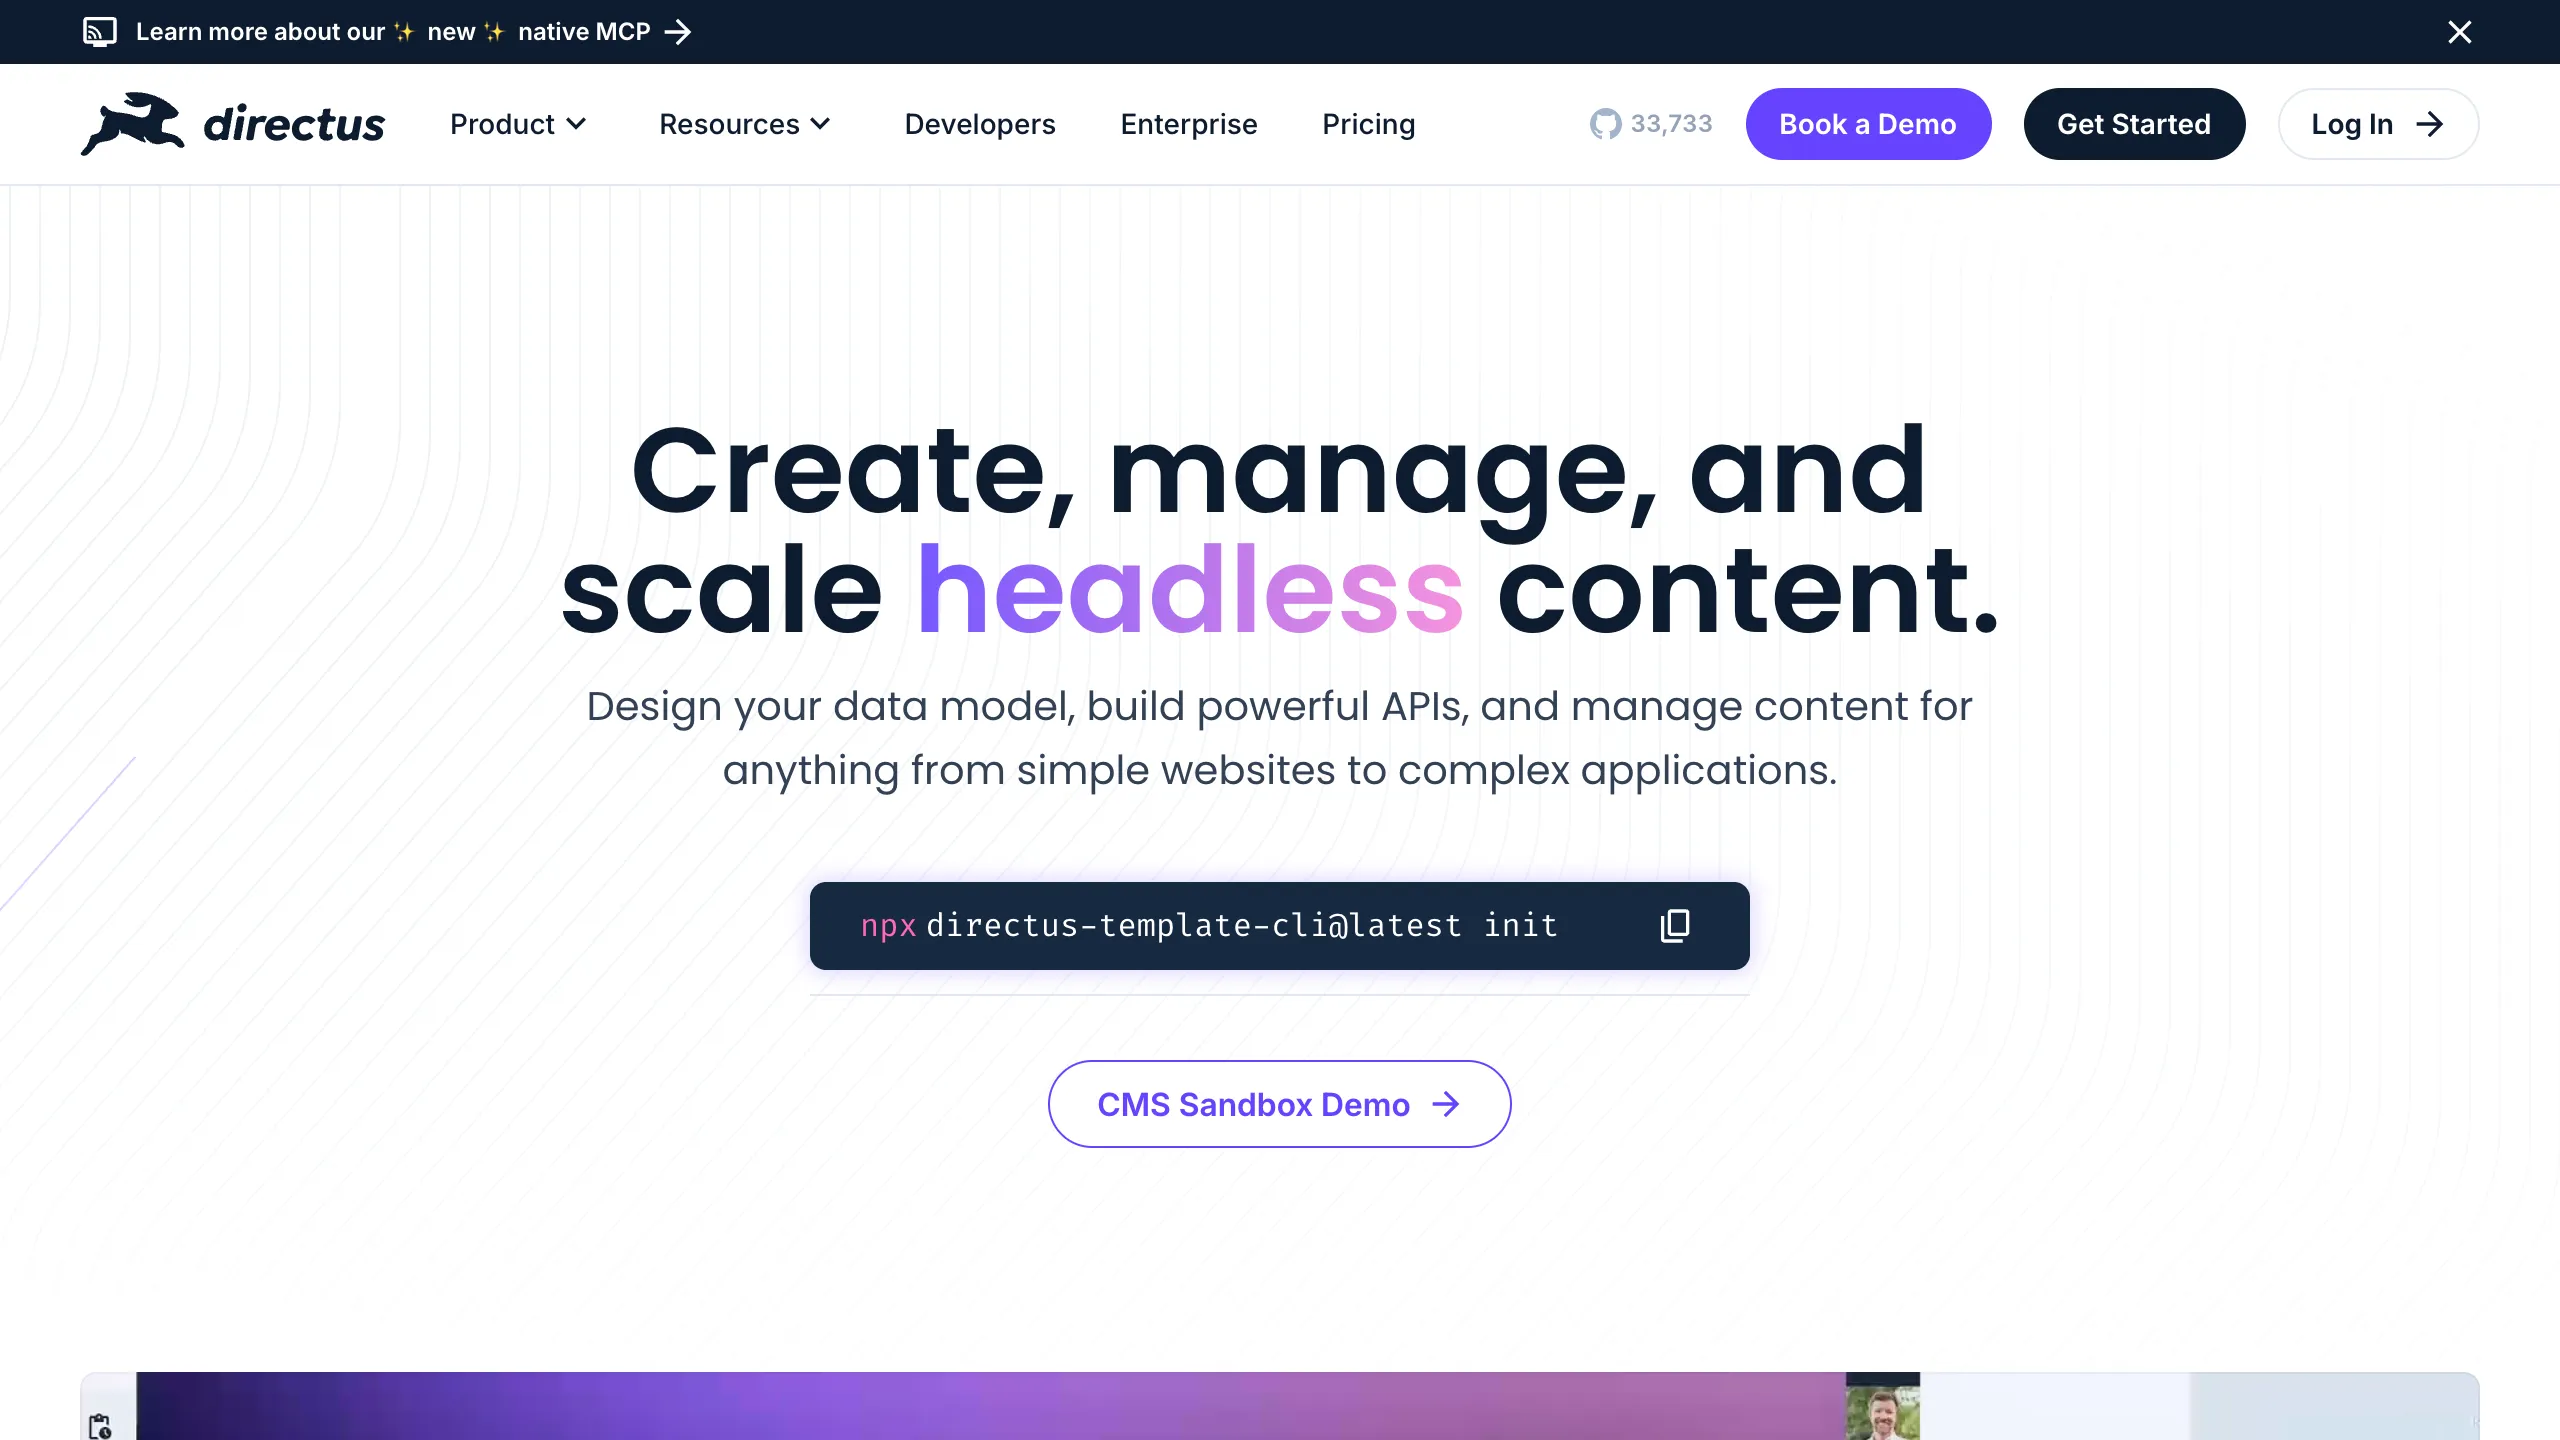
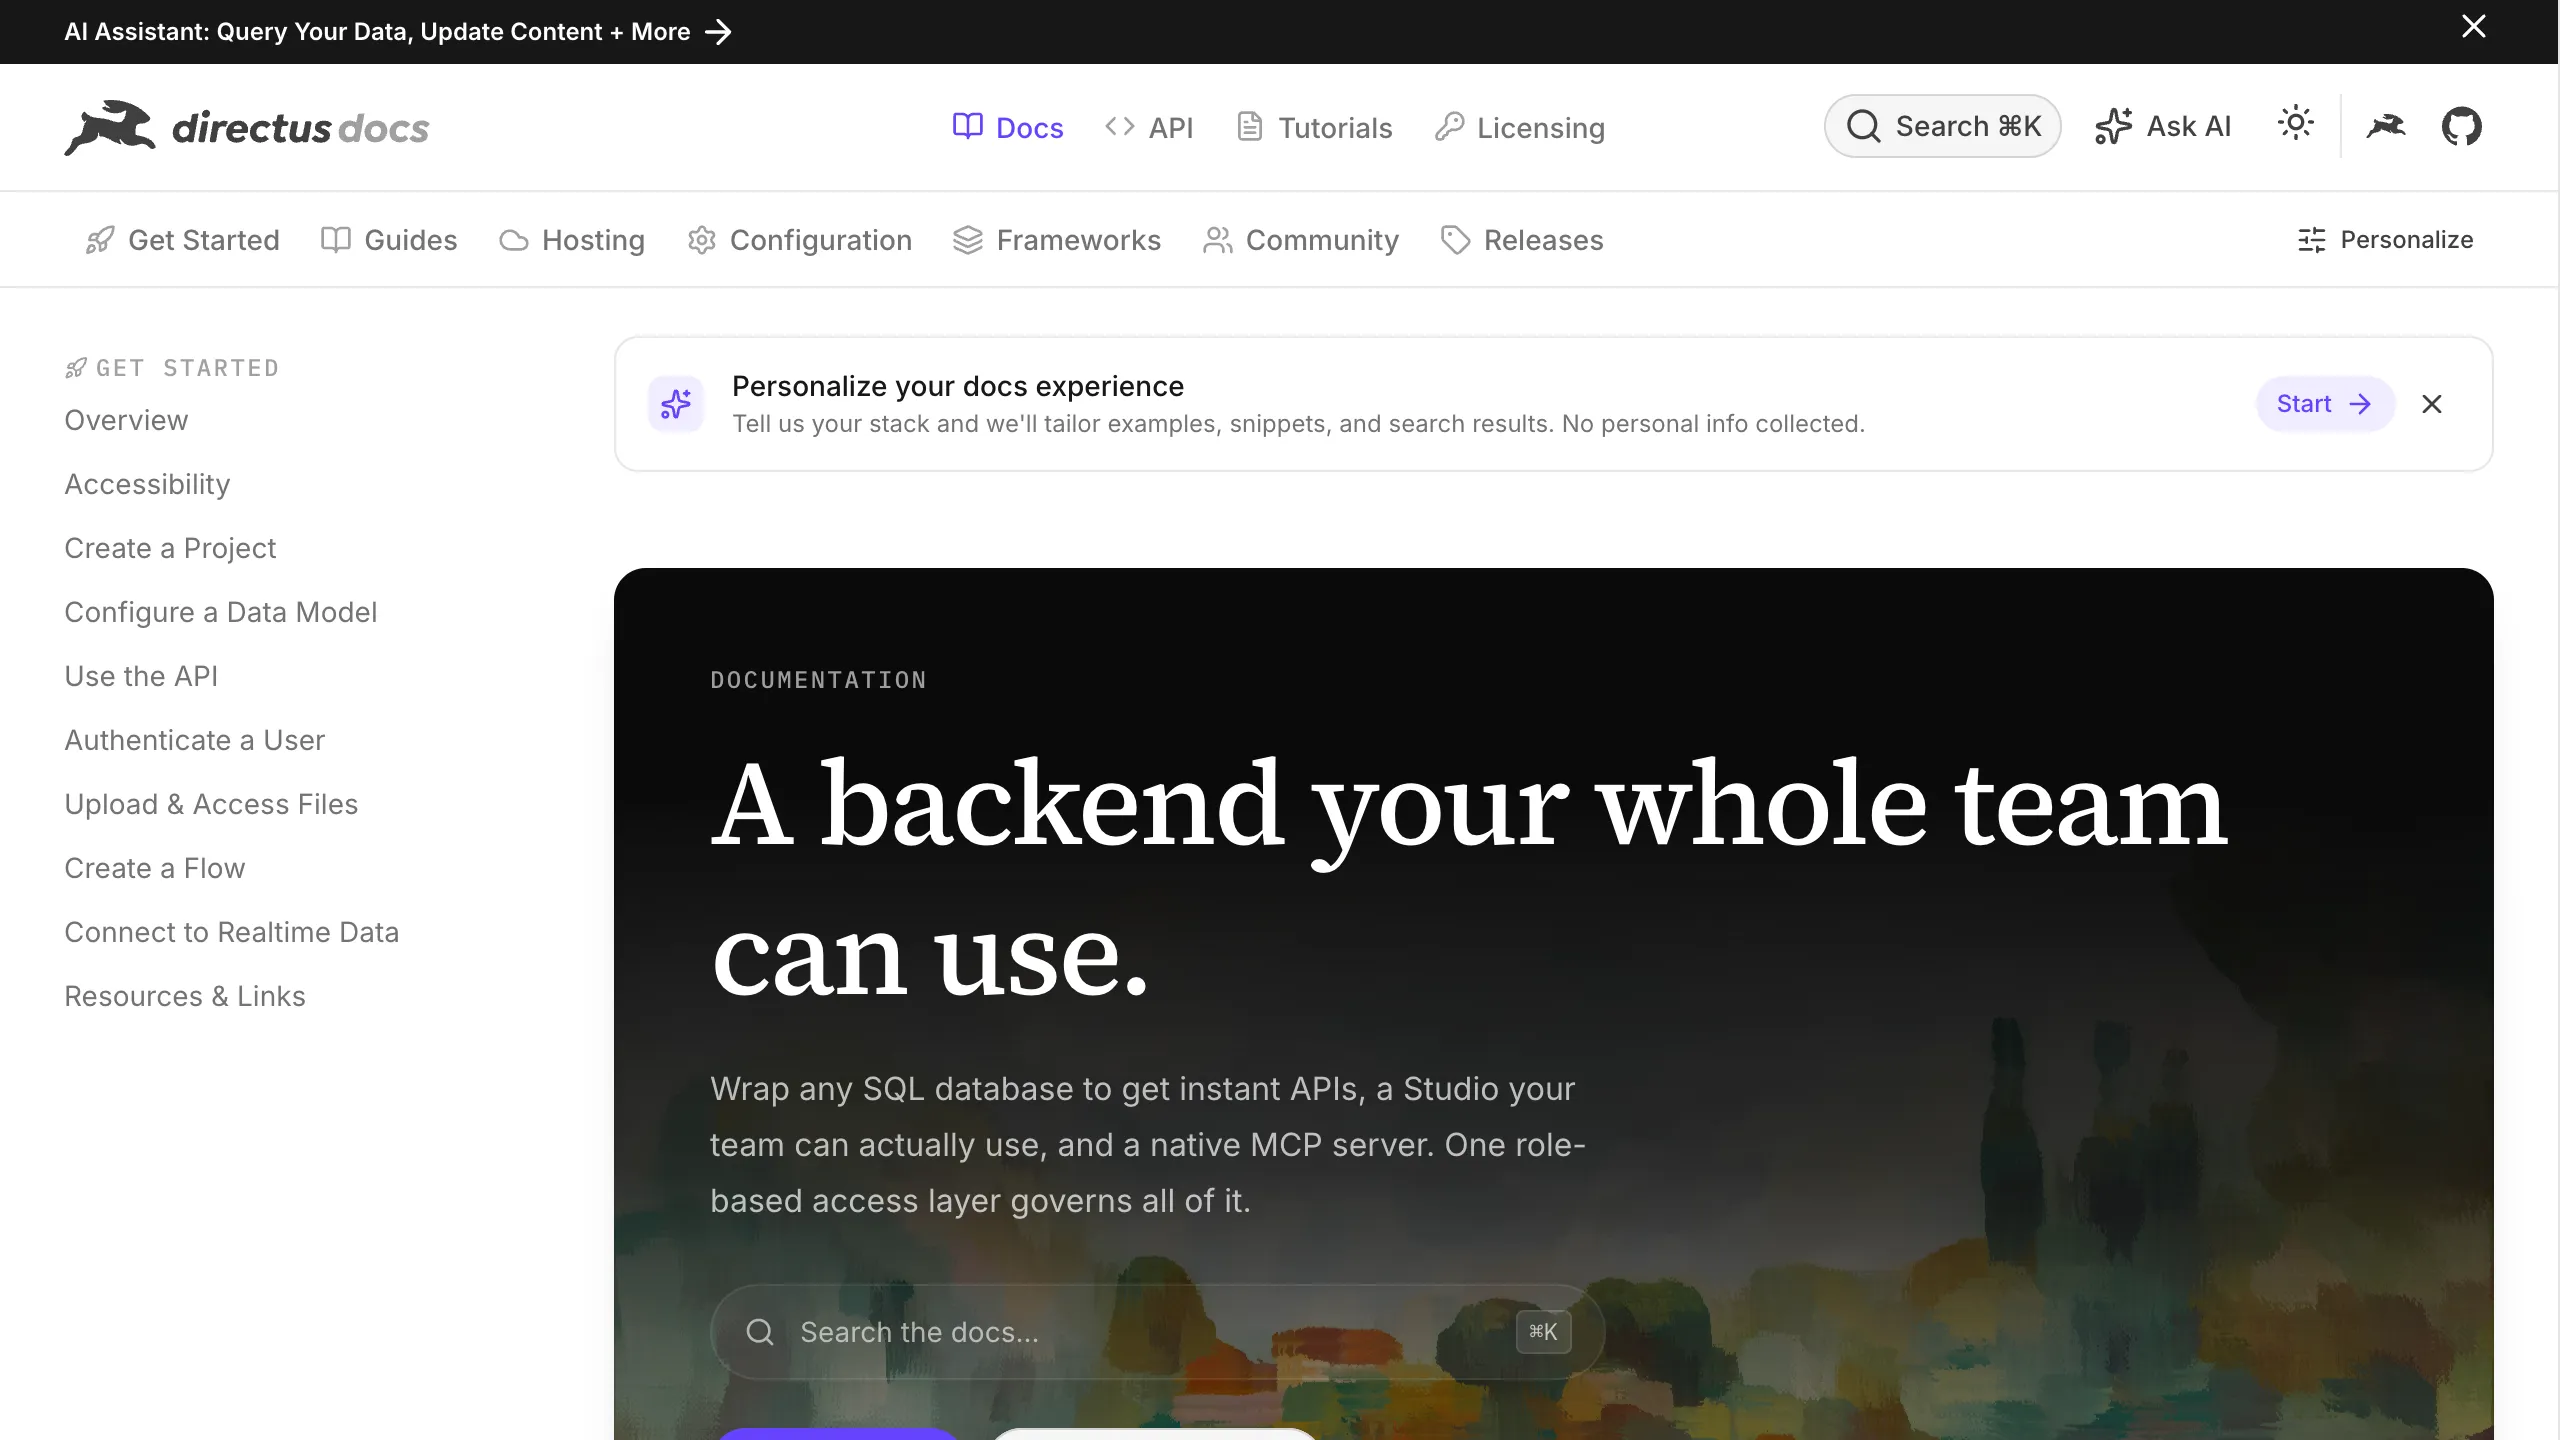
chore(showcase): remove Virgin Galactic and point Directus to its docs

diff --git a/nuxt.config.ts b/nuxt.config.ts
@@ -477,7 +477,6 @@ export default defineNuxtConfig({
     '/assets/websites/explore-france.png': { redirect: '/assets/websites/explore-france.webp' },
     '/assets/websites/louis-vuitton.png': { redirect: '/assets/websites/louis-vuitton.webp' },
     '/assets/websites/shaina-mote.png': { redirect: '/assets/websites/shaina-mote.webp' },
-    '/assets/websites/virgin-galactic.png': { redirect: '/assets/websites/virgin-galactic.webp' },
     // missing redirects
     '/docs/4.x/examples/essentials/hello-world': { redirect: '/docs/examples/hello-world', prerender: false },
     '/docs/5.x/examples/essentials/hello-world': { redirect: '/docs/examples/hello-world', prerender: false },
